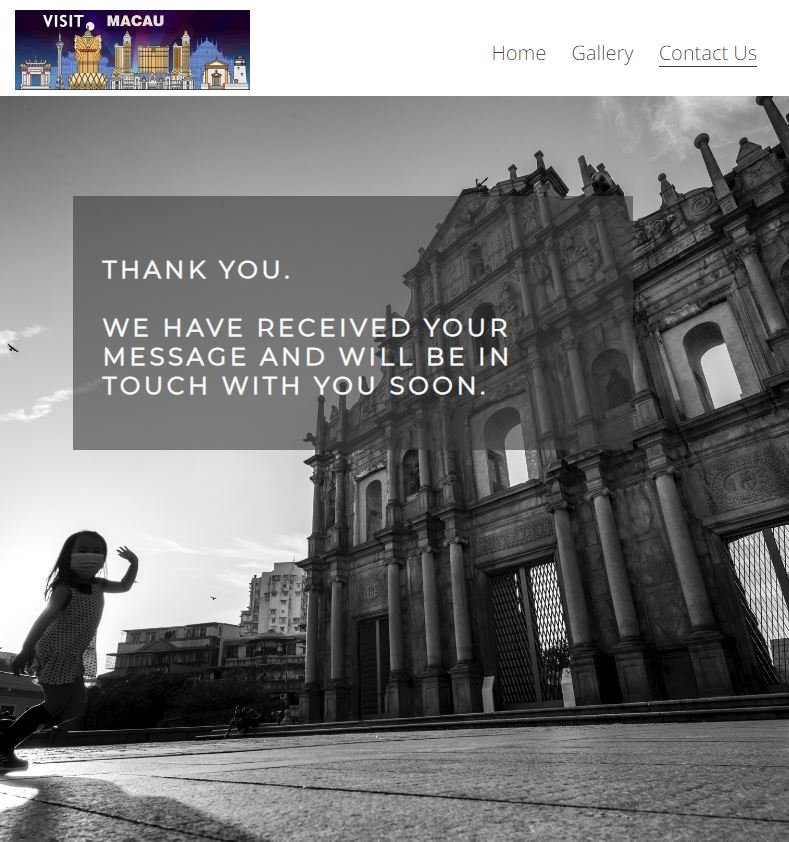
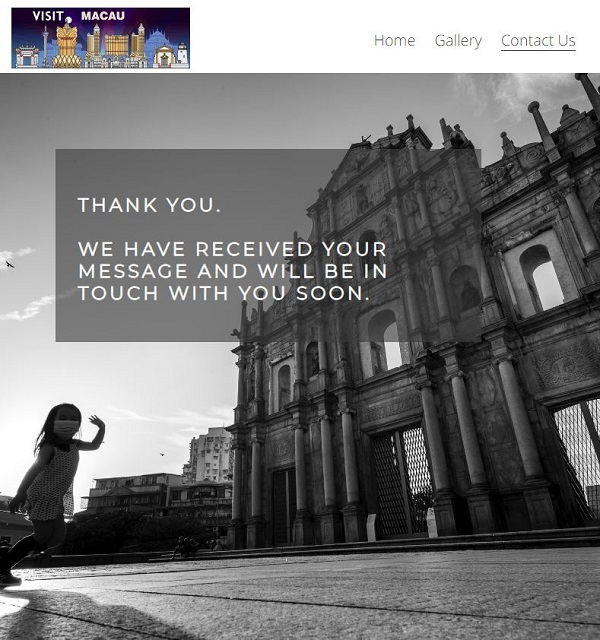
Add contact us thank you wireframe to readme

diff --git a/assets/css/style.css b/assets/css/style.css
@@ -137,7 +137,7 @@ h1, h2 {
 #hero-image {
     height: 700px;
     width: 100%;
-    background: url('../images/macau-hero-image.webp') no-repeat center right;
+    background: url('../images/macau-hero-image-rsz.webp') no-repeat center right;
 
     /* animates zoom effect on loading page */
     animation-name: hero-zoom;

diff --git a/README.md b/README.md
@@ -112,9 +112,9 @@ Landing / Home page
 
 ![Home Page small screen](docs/readme_images/home_mobile_wireframe.png)
 <br><br>
-Contact form successful submission page.
+Contact US form successful submission thank you page.
 <br><br>
-![Contact form submission success](docs/readme_images/contact_wireframe.JPG)
+![Contact Us form submission thank you success](docs/readme_images/contact_us_wireframe.png)
 
 ![Contact form submission success](docs/readme_images/contact_mobile_wireframe.JPG)
 
